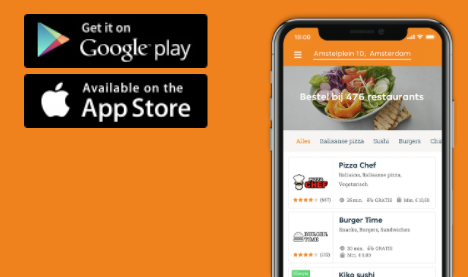
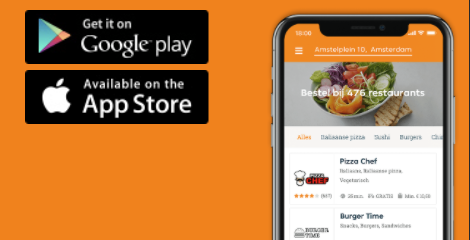
.

diff --git a/styles/style.css b/styles/style.css
@@ -4,7 +4,7 @@ html {
 }
 
 body {
-  font-family: Takeaway Sans, Avant Garde, Century Gothic, Helvetica, Arial, sans-serif;
+  font-family: Takeaway Sans,Avant Garde,Century Gothic,Helvetica,Arial,sans-serif;
   font-weight: 400;
   margin: 0px;
   width: 100%;
@@ -12,27 +12,44 @@ body {
 
 header {
   background-color: #ff8000;
-  align-items: center;
   margin-left: 0px;
   border-left: 10px solid #ff8000;
   border-top: 10px solid #ff8000;
   border-bottom: 15px solid #ff8000;
 }
 
-
 #slider {
-  margin-top: 100;
+  text-align: center;
+  display: block;
+  margin-left: auto;
+  margin-right: auto;
 }
 
+#begin{
+  text-align: center;
+  background-color: #ff8000;
+  z-index: 0;
+}
 form {
   /* width: 100%; */
   border: 1em solid #ff8000;
   background-color: #ff8000;
-  display: table;
-  margin: 0 auto;
-  padding: solid #ff8000;
+  margin: solid #ff8000;
+  max-width: 64em;
+  margin: auto;
+  display: inline-block;
 }
 
+.groot{
+  font-weight: 600;
+  font-size: 18px;
+  margin-bottom: -20px;
+}
+
+.klein{
+  font-weight: 400;
+  font-size: 14px;
+}
 
 #text {
   font-size: 15px;
@@ -73,11 +90,11 @@ section p {
   text-align: center;
 }
 
-.adv {
+.boven {
   color: white;
   height: 3%;
   width: 50%;
-  padding: 1;
+  padding: 0px;
   /* border: 5em solid #ff8000;
   border-right: 10em solid #ff8000;
   border-left: 10em solid #ff8000; */
@@ -85,10 +102,32 @@ section p {
   display: flex;
   justify-content: center;
   align-items: center;
-  margin: -7px;
+  margin: 0px;
+  margin-top: 60px;
+}
+
+.onder {
+  color: white;
+  height: 3%;
+  width: 50%;
+  padding: 0px;
+  /* border: 5em solid #ff8000;
+  border-right: 10em solid #ff8000;
+  border-left: 10em solid #ff8000; */
+  background-color: black;
+  display: flex;
+  justify-content: center;
+  align-items: center;
+  margin: 0px;
+  border-radius: 0px 0px 5px 0px;
+}
+
+#advert {
+  background-color: #ff8000;
 }
 
 h1 {
+  padding-top: 20px;
   width: 100%;
   margin: 0px;
   font-size: 35px;
@@ -123,8 +162,10 @@ h4 {
 
 h5 {
   color: black;
-  font-weight: bold;
   text-align: center;
+  font-size: 20px;
+  margin-bottom: 20px;
+  font-weight: normal;
 }
 
 footer {
@@ -143,17 +184,16 @@ footer p {
 }
 
 
-.dotted {
-  display: flex;
-  justify-content: center;
-  align-items: center;
+.locatie {
+  width: 100px;
+  margin-bottom: -30px;
 }
 
-.locatie {
-  margin-right: 40px;
-  margin-bottom: -50px;
-  /* help */
+.rest {
+  width: 150px;
+  margin-bottom: -30px;
 }
+
 
 footer img {
   max-width: 100%;
@@ -165,6 +205,10 @@ footer img {
 
 .phone{
   width: 100%;
+}
+
+.detail{
+width: 100%;
 }
 
 p {}
@@ -234,14 +278,9 @@ section#some-ultra-cool-component {}
 
 
 /*
-
   .overlay {
-    top: 15px;
-    left: -10px;
     z-index: 1;
-    height: 0;
-    width: 0;
-    border-top: 40px solid #ff8000;
-    border-right: 375px solid transparent;
+    border-top: 1em solid #ff8000;
+    border-right: 10em solid transparent;
     position: relative;
   } */

diff --git a/index.html b/index.html
@@ -25,60 +25,54 @@
         <input type="text" id="text" name="Text" value="Wibautstraat 2">
         <input type="submit" id="zoek" name="Zoek" value="Zoek" href="zoek.html">
       </form>
+      </section>
+      <!-- <div class="overlay"></div> -->
       <img class="image" src="images/pizza_cover_mobile.jpg" alt="" />
-    </section>
+
 
 
     <!-- ZO WERKT THUISBEZORGD -->
 
     <section id="slider">
-      <h3> Zo werkt thuisbezorgd.nl </h3>
-      <h4> Supersimpel!</h4>
-      <ul>
-        <li>
-          <img class="locatie" src="images/locatie.png" alt="locatie" />
-          <p>locatie invoeren</p>
-        </li>
-        <ul class="dotted">
-          <li></li>
-          <li></li>
-          <li></li>
-        </ul>
-      </ul>
+        <h3> Zo werkt thuisbezorgd.nl </h3>
+        <h4> Supersimpel!</h4>
+
+      <img class="locatie" src="images/locatie.png" alt="locatie" />
+        <p class="groot">locatie invoeren</p>
+        <p class="klein">voer je adres in, of laat ons je positie bepalen</p>
+
+      <img class="rest" src="images/hotdog.png" alt="hotdog" />
+        <p class="groot">Kies je restaurant en gerecht</p>
+        <p class="klein">Waar heb je zin in? Scroll door talloze menu's</p>
+
+      <img class="rest" src="images/scooter.png" alt="scooter" />
+        <p class="groot">Betaal en laat het eten bezorgen</p>
+        <p class="klein">betaal contant of online met iDEAL of Creditcard.</p>
     </section>
 
     <!-- BANNER -->
-    <section>
-      <p class="adv">Download de app</p>
-      <p class="adv">Klik, ontspan en geniet</p>
-      <img class="phone" src="images/phone.png" alt="phone" />
+    <section id="advert">
+      <p class="boven">Download de app</p>
+      <p class="onder">Klik, ontspan en geniet</p>
     </section>
-
+      <img class="phone" src="images/phone.png" alt="phone" />
     <!-- Jouw tijd -->
 
     <section>
       <h5>Thuisbezorgd.nl</h3>
         <h4>Jouw tijd</h4>
-          <ul>
-
-            <ul>
-              <li></li>
-              <li></li>
-              <li></li>
-            </ul>
-
-          </ul>
-        </section>
-    </main>
+          <img class="detail" src="images/detail.png" alt="detail" />
+    </section>
+  </main>
   <footer>
     <img src="images/logo.footer.png" alt="logo" />
     <p> Follow us </p>
     <img class="social" src="images/social.png" alt="social" />
-  <footer>
+    <footer>
 
 </body>
 
 </html>
 
 <!--
-<div class="overlay"></div> -->
+ -->
